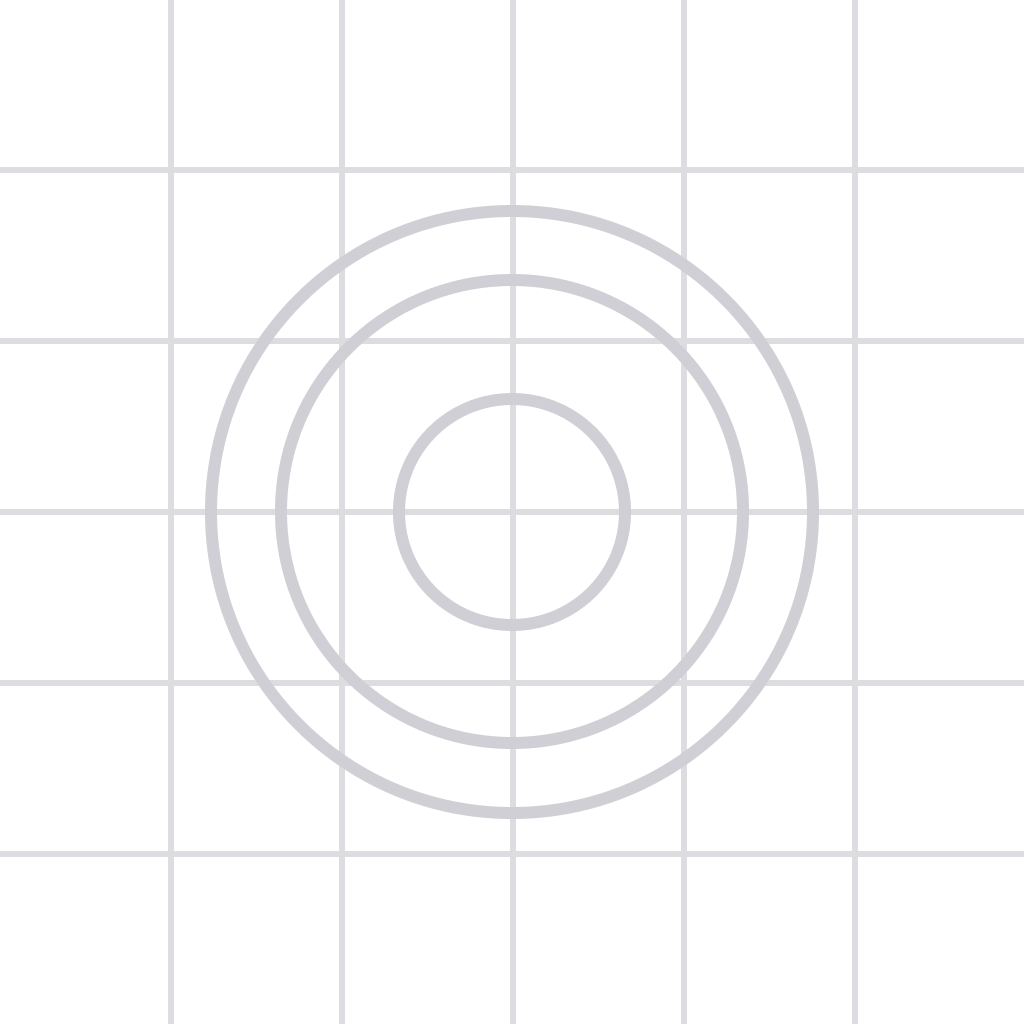
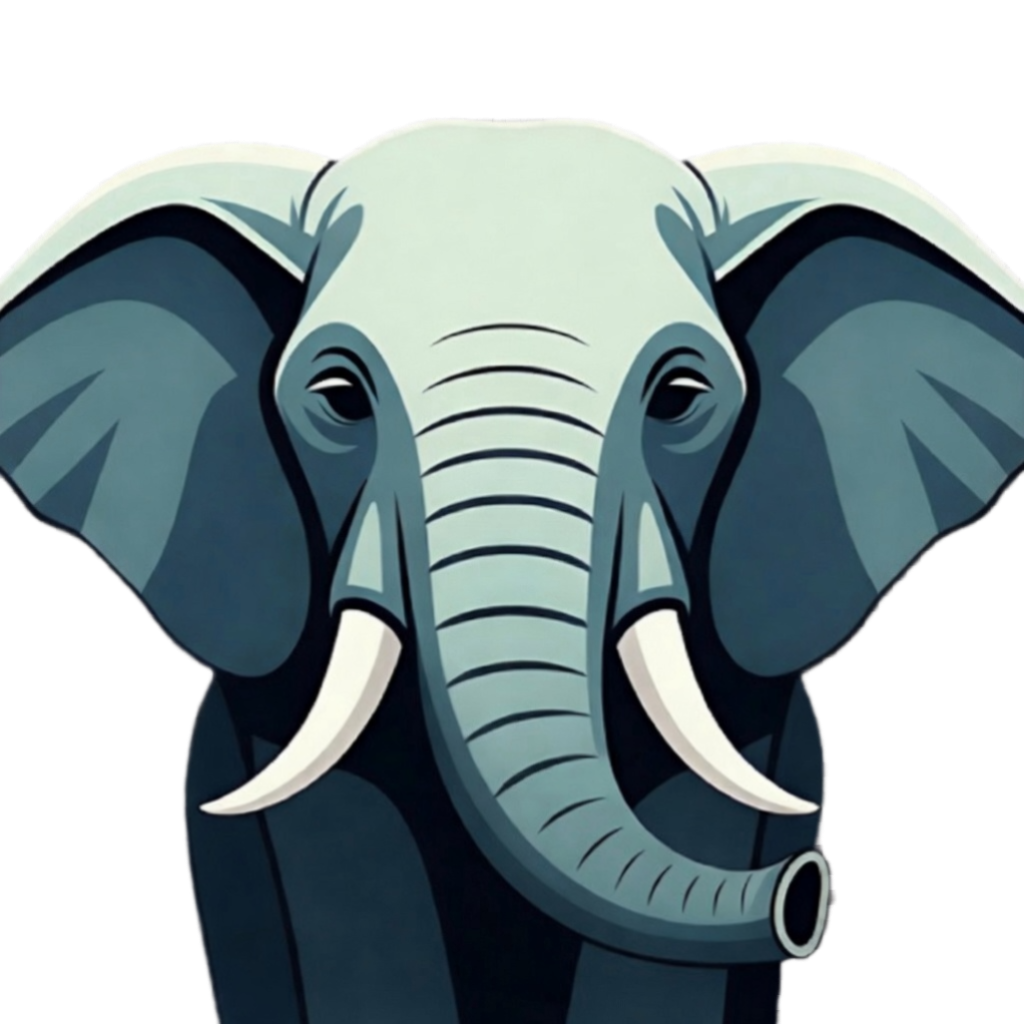
style: refine ui

diff --git a/src/features/home/screens/index.tsx b/src/features/home/screens/index.tsx
@@ -6,7 +6,7 @@ import {
   TextInput 
 } from 'react-native';
 import { IconButton, useTheme } from 'react-native-paper';
-import { KeyboardAvoidingView } from 'react-native-keyboard-controller';
+import { KeyboardAvoidingView, KeyboardProvider } from 'react-native-keyboard-controller';
 import Header from '../../../components/Header';
 
 export default memo(function IndexScreen() {
@@ -14,68 +14,66 @@ export default memo(function IndexScreen() {
   const [inputText, setInputText] = useState('');
 
   return (
-    <KeyboardAvoidingView 
-      style={styles.page}
-      behavior="padding"
-    >
-      {/* 顶部标题栏 */}
-      <Header style={{ backgroundColor: colors.surface }} header="private" />
-      
-      {/* 消息列表区域 */}
-      <ScrollView 
-        style={styles.messageList}
-        showsVerticalScrollIndicator={false} 
-        removeClippedSubviews={true}
-        keyboardShouldPersistTaps="handled"
-        keyboardDismissMode="interactive" 
+    <KeyboardProvider>
+      <KeyboardAvoidingView 
+        style={styles.page}
+        behavior="padding"
       >
-        <View style={styles.messageListContainer}>
-          {/* 这里以后放聊天气泡 */}
+        {/* 顶部标题栏 */}
+        <Header style={{ backgroundColor: colors.surface }} header="private" />
+        
+        {/* 消息列表区域 */}
+        <ScrollView 
+          style={styles.messageList}
+          showsVerticalScrollIndicator={false} 
+          removeClippedSubviews={true}
+          keyboardShouldPersistTaps="handled"
+          keyboardDismissMode="interactive" 
+        >
+          <View style={styles.messageListContainer}>
+            {/* 这里以后放聊天气泡 */}
+          </View>
+        </ScrollView>
+
+        {/* 底部输入框容器 */}
+        <View style={[styles.chatContainer, { backgroundColor: colors.background }]}>
+          <View style={[styles.inputWrapper, { backgroundColor: colors.surface }]}>
+            {/* 左侧：功能按钮 */}
+            <IconButton
+              icon="plus" 
+              size={24}
+              iconColor={colors.onSurfaceVariant}
+              onPress={() => console.log('打开附件')}
+            />
+
+            {/* 中间：多行文本输入框 */}
+            <TextInput
+              style={[styles.input, { color: colors.onSurface }]}
+              placeholder="Message Gemini..."
+              placeholderTextColor={colors.onSurfaceVariant}
+              multiline={true}
+              value={inputText}
+              onChangeText={setInputText}
+            />
+
+            {/* 右侧：发送 / 麦克风 按钮 */}
+            <IconButton
+              icon={inputText.trim().length > 0 ? "send" : "microphone"}
+              size={24}
+              iconColor={inputText.trim().length > 0 ? colors.primary : colors.onSurfaceVariant}
+              onPress={() => {
+                if (inputText.trim().length > 0) {
+                  console.log('发送消息:', inputText);
+                  setInputText(''); 
+                } else {
+                  console.log('开始语音输入...');
+                }
+              }}
+            />
+          </View>
         </View>
-      </ScrollView>
-
-      {/* 底部输入框容器 */}
-      <View style={[styles.chatContainer, { backgroundColor: colors.surface }]}>
-        <View style={[
-          styles.inputWrapper, 
-          { backgroundColor: colors.elevation.level2 || '#f0f4f9' }
-        ]}>
-          
-          {/* 左侧：功能按钮 */}
-          <IconButton
-            icon="plus" 
-            size={24}
-            iconColor={colors.onSurfaceVariant}
-            onPress={() => console.log('打开附件')}
-          />
-
-          {/* 中间：多行文本输入框 */}
-          <TextInput
-            style={[styles.input, { color: colors.onSurface }]}
-            placeholder="Message Gemini..."
-            placeholderTextColor={colors.onSurfaceVariant}
-            multiline={true}
-            value={inputText}
-            onChangeText={setInputText}
-          />
-
-          {/* 右侧：发送 / 麦克风 按钮 */}
-          <IconButton
-            icon={inputText.trim().length > 0 ? "send" : "microphone"}
-            size={24}
-            iconColor={inputText.trim().length > 0 ? colors.primary : colors.onSurfaceVariant}
-            onPress={() => {
-              if (inputText.trim().length > 0) {
-                console.log('发送消息:', inputText);
-                setInputText(''); 
-              } else {
-                console.log('开始语音输入...');
-              }
-            }}
-          />
-        </View>
-      </View>
-    </KeyboardAvoidingView>
+      </KeyboardAvoidingView>  
+    </KeyboardProvider>
   );
 });
 